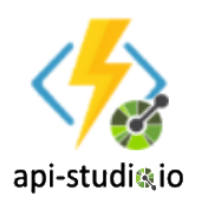
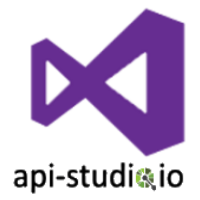
Updating preview image and readme (#19)

diff --git a/README.md b/README.md
@@ -44,12 +44,12 @@ Creating a new project is simple. Visual Studio "Create Project", search "Api St
 
 ## **What's next**
 
-This extension currently supports RESTful-based APIs, but extensions to allow support for gRpc, WebHooks and WebSocket interfaces soon.
+This extension currently supports RESTful-based APIs. However, we're working on adding support for TypeScript and Python including new protocols including gRpc, WebHooks and WebSocket interfaces.
 
 ## **How can I help?**
-If you enjoy using the extension, please give it a rating on the [Visual Studio Marketplace][marketplace].
+If you enjoy using the extension, please give it a rating on the [Visual Studio Marketplace](https://marketplace.visualstudio.com/items?itemName=AndrewButson.ApiStudio).
 
-Should you encounter bugs or if you have feature requests, head on over to the [GitHub repo][repo] to open an issue if one doesn't already exist.
+Should you encounter bugs or if you have feature requests, head on over to the [GitHub repo](https://github.com/arbs-io/api-studio-visualstudio) to open an issue if one doesn't already exist.
 Pull requests are also very welcome since I can't always get around to fixing all bugs myself. 
 
 This is a personal passion project, so my time is limited.
